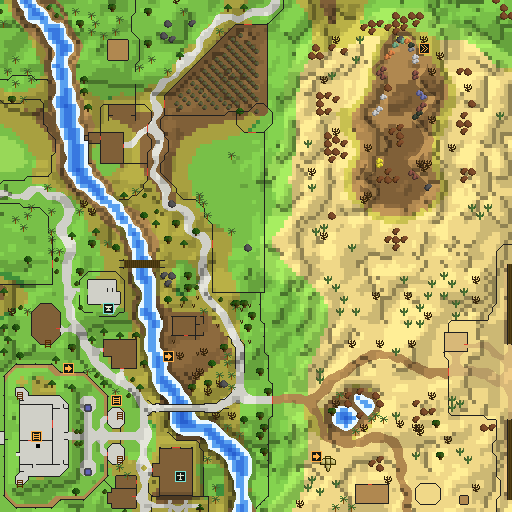
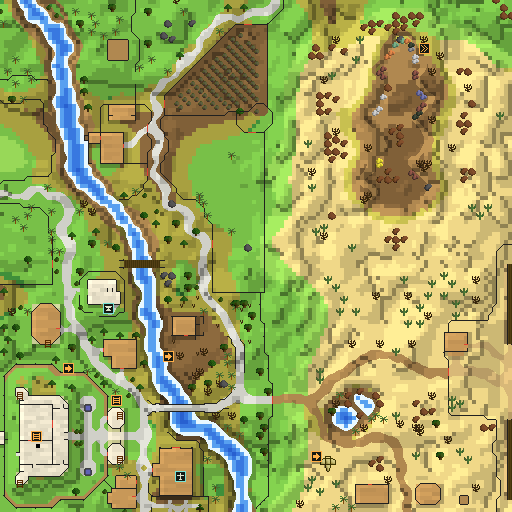
Render roofed tiles as textured building floors in the tactical style
Building interiors went through the terrain classes, so wooden floors
looked like mud, stone floors merged into streets and ink walls had
little contrast. Tiles under a roof (tile setting 0x4, now exposed as
Terrain.roofed) become flagstone or plank floors with per-tile texture,
lit north/west edges and a shadow cast south/east, and skip terrain
relief. standard stays byte-identical to runelite.

diff --git a/src/main/java/mapstyle/TacticalStyle.java b/src/main/java/mapstyle/TacticalStyle.java
@@ -45,6 +45,11 @@ final class TacticalStyle implements MapStyle
 		int swampDark;
 		/** Bright orange-yellow overlays. */
 		int lava;
+		/** Roofed floors: stone (and anything grey) and wood (brown floors). */
+		int buildingStone;
+		int buildingWood;
+		/** Brightness of ground in a building's shadow (south and east of it). */
+		double buildingShadow = 0.74;
 		int road;
 		int path;
 		int foam;
@@ -96,6 +101,8 @@ final class TacticalStyle implements MapStyle
 		p.swamp = 0x5E7A5A;
 		p.swampDark = 0x4A6249;
 		p.lava = 0xE8642C;
+		p.buildingStone = 0xC9C2A8;
+		p.buildingWood = 0xA88A5E;
 		p.road = 0xB5B29A;
 		p.path = 0xB89A62;
 		p.foam = 0x86C4BB;
@@ -121,6 +128,8 @@ final class TacticalStyle implements MapStyle
 		p.swamp = 0x34483A;
 		p.swampDark = 0x2A3A2F;
 		p.lava = 0xFF7A2F;
+		p.buildingStone = 0x6F6B5C;
+		p.buildingWood = 0x5E4C35;
 		p.road = 0x75735F;
 		p.path = 0x6E5E3E;
 		p.foam = CYAN;
@@ -149,6 +158,8 @@ final class TacticalStyle implements MapStyle
 		p.swamp = 0xB5C4A8;
 		p.swampDark = 0xA5B598;
 		p.lava = 0xD9663A;
+		p.buildingStone = 0xF2EBD6;
+		p.buildingWood = 0xDCC49A;
 		p.road = 0xF4F0E0;
 		p.path = 0xE2CFA0;
 		p.foam = 0x5A86A6;
@@ -178,6 +189,8 @@ final class TacticalStyle implements MapStyle
 		p.swamp = 0x4F9A70;
 		p.swampDark = 0x3B7A58;
 		p.lava = 0xF05020;
+		p.buildingStone = 0xE8E0C8;
+		p.buildingWood = 0xC89858;
 		p.road = 0xD0D0C8;
 		p.path = 0xD8B878;
 		p.foam = 0xE8F8FF;
@@ -209,7 +222,11 @@ final class TacticalStyle implements MapStyle
 	@Override
 	public int underlay(int rgb, UnderlayDefinition underlay, int x, int y, int z, Terrain terrain)
 	{
-		return coast(relief(ground(rgb), x, y, z, terrain), x, y, z, terrain);
+		if (terrain.roofed(x, y, z))
+		{
+			return building(rgb, x, y, z, terrain);
+		}
+		return shadow(coast(relief(ground(rgb), x, y, z, terrain), x, y, z, terrain), x, y, z, terrain);
 	}
 
 	@Override
@@ -223,7 +240,69 @@ final class TacticalStyle implements MapStyle
 		{
 			return water(x, y, z, terrain);
 		}
-		return coast(relief(surface(rgb), x, y, z, terrain), x, y, z, terrain);
+		if (terrain.roofed(x, y, z))
+		{
+			return building(rgb, x, y, z, terrain);
+		}
+		return shadow(coast(relief(surface(rgb), x, y, z, terrain), x, y, z, terrain), x, y, z, terrain);
+	}
+
+	/**
+	 * A roofed floor tile. Grey floors become flagstones and brown floors
+	 * planks, each textured per tile in three close tones; coloured floors
+	 * (carpets) keep a muted version of their hue. Tiles along a building's
+	 * north and west walls are lit, so with {@link #shadow} on the other
+	 * side buildings read as raised blocks. No terrain relief applies indoors.
+	 */
+	private int building(int rgb, int x, int y, int z, Terrain terrain)
+	{
+		float[] hsb = hsb(rgb);
+		int floor;
+		int tone;
+		if (hsb[1] < 0.25f)
+		{
+			floor = p.buildingStone;
+			// Flagstones two tiles wide, staggered every row.
+			tone = hash((x + (y & 1)) >> 1, y);
+		}
+		else if (hsb[0] < 0.14f)
+		{
+			floor = p.buildingWood;
+			// Planks running east-west, four tiles long, staggered by row.
+			tone = hash((x + 2 * (y % 3)) >> 2, y);
+		}
+		else
+		{
+			float[] stone = hsb(p.buildingStone);
+			floor = Color.HSBtoRGB(hsb[0], Math.min(hsb[1], 0.4f) * 0.7f, stone[2] * 0.85f) & 0xFFFFFF;
+			tone = hash(x, y);
+		}
+		double shade = TEXTURE[Math.floorMod(tone, TEXTURE.length)];
+		if (!terrain.roofed(x, y + 1, z) || !terrain.roofed(x - 1, y, z))
+		{
+			shade *= BUILDING_LIT_EDGE;
+		}
+		return Styles.shade(floor, shade);
+	}
+
+	/** Ground just south or east of a building lies in its shadow. */
+	private int shadow(int rgb, int x, int y, int z, Terrain terrain)
+	{
+		if (terrain.roofed(x, y + 1, z) || terrain.roofed(x - 1, y, z))
+		{
+			return Styles.shade(rgb, p.buildingShadow);
+		}
+		return rgb;
+	}
+
+	/** Per-tile floor tones; mostly the base colour, with a lighter and a darker variant. */
+	private static final double[] TEXTURE = {1.0, 1.0, 0.94, 1.05, 1.0, 0.97};
+	private static final double BUILDING_LIT_EDGE = 1.08;
+
+	private static int hash(int a, int b)
+	{
+		int h = a * 73856093 ^ b * 19349663;
+		return h ^ h >>> 13;
 	}
 
 	/**

diff --git a/src/main/java/mapstyle/Terrain.java b/src/main/java/mapstyle/Terrain.java
@@ -62,6 +62,17 @@ public final class Terrain
 		return id == 0 ? 0 : overlayCache.computeIfAbsent(id - 1, overlayColour::applyAsInt);
 	}
 
+	/**
+	 * Whether (x, y, z) is under a roof: tile setting bit 0x4, which the
+	 * client uses to hide roofs. It marks building interiors exactly; open
+	 * yards and roofless ruins are not flagged.
+	 */
+	public boolean roofed(int x, int y, int z)
+	{
+		Region r = regions.findRegionForWorldCoordinates(x, y);
+		return r != null && (r.getTileSetting(z, x & (Region.X - 1), y & (Region.Y - 1)) & 4) != 0;
+	}
+
 	/** Height at world tile (x, y, z), or {@code fallback} outside the loaded squares. */
 	public int height(int x, int y, int z, int fallback)
 	{

diff --git a/README.md b/README.md
@@ -224,6 +224,16 @@ the hooks:
   The strength is blended by the window's share of frozen tiles, so the
   frozen sea's edge does not step.
 - **Surfaces:** roads and paths as light stone or tan.
+- **Buildings:** any tile under a roof (tile setting bit `0x4`, which the
+  client uses to hide roofs, exposed as `Terrain.roofed`) is a building
+  floor rather than terrain. Grey floors become flagstones and brown floors
+  planks, each in a light per-palette colour textured per tile in a few
+  close tones (staggered two-tile flagstones, staggered four-tile planks).
+  Coloured floors keep a muted version of their hue. Floor tiles along the
+  north and west walls are lit, and ground just south and east of a building
+  is shadowed, so buildings read as raised blocks. No relief or coast rim
+  applies indoors. Roofless rooms and yards are not flagged and stay
+  terrain.
 - **Walls and doors:** walls in the planner's `--ink` colour, doors in its
   `--orange`.
 - **Icons** (`TacticalIcons.java`, through the `icon` hook): only icons that
